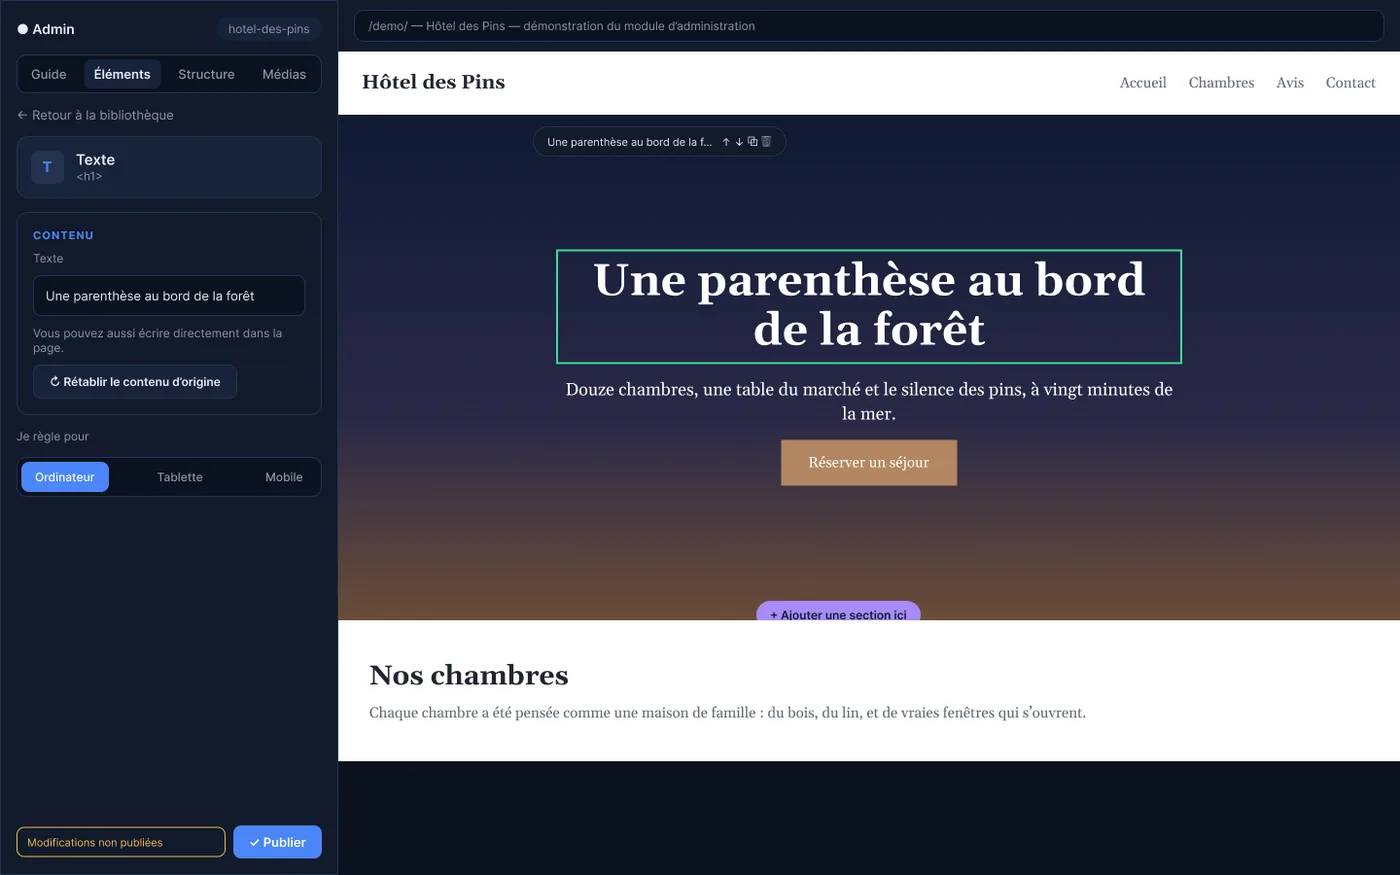
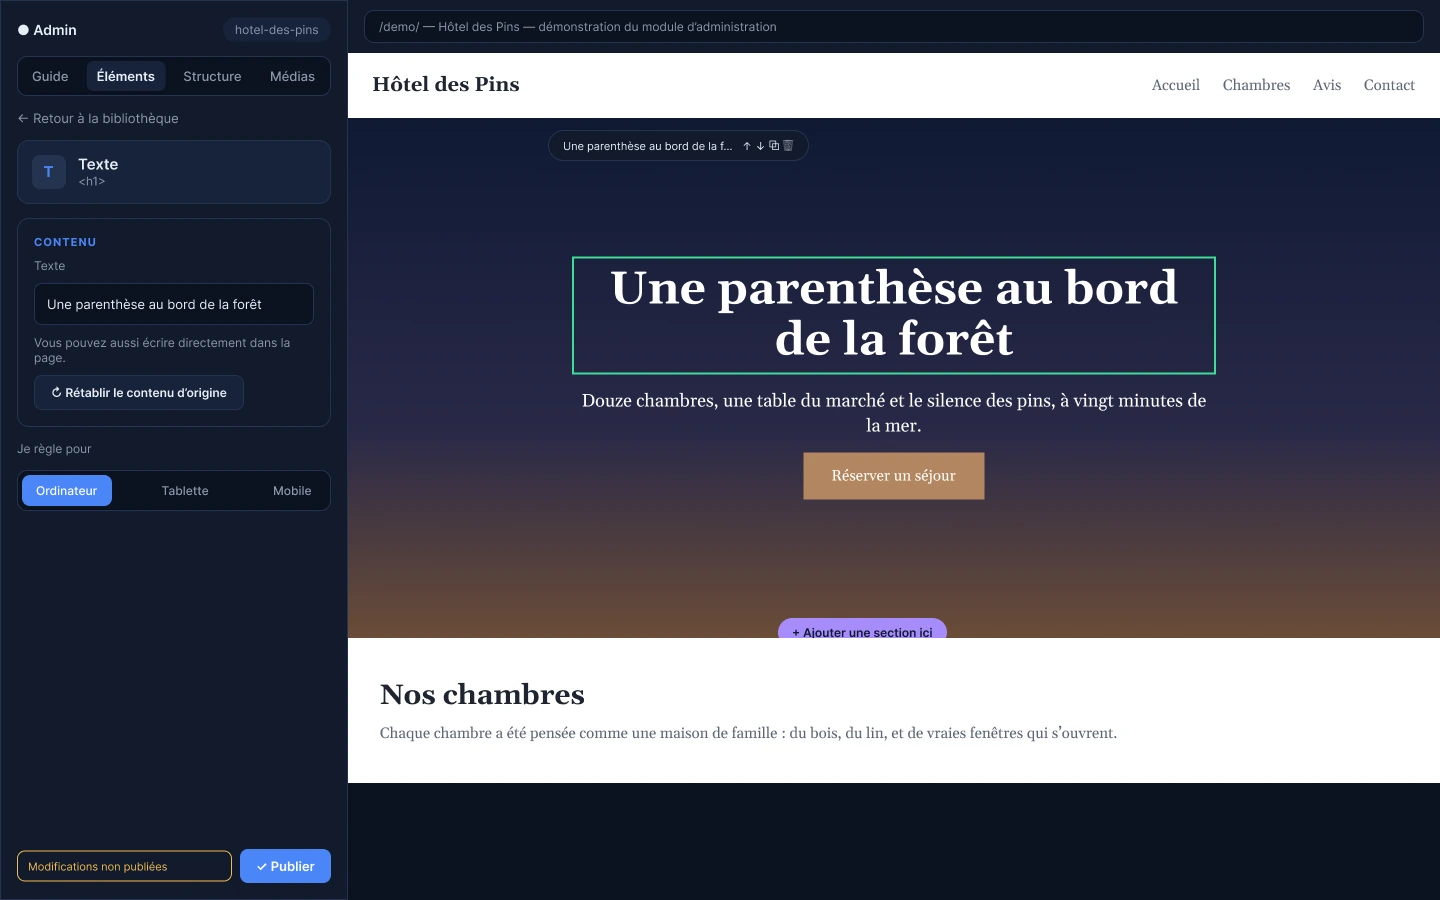
dev: miniatures nettes et cliquables pour les maquettes Figma
Claude-Session: https://claude.ai/code/session_01PL5uDWbHu6DrzALGX3Hvpk

diff --git a/assets/css/dev.css b/assets/css/dev.css
@@ -1,1 +1,1 @@
-:root{--navy: #1B3560;--signal: #3E8E5C}*{box-sizing:border-box}html{scroll-behavior:smooth}@media(prefers-reduced-motion: reduce){html{scroll-behavior:auto}*{animation-duration:.01ms !important;animation-iteration-count:1 !important;transition-duration:.01ms !important}}body{margin:0;background:#eef1ef;color:#10151c;font-family:"IBM Plex Sans",sans-serif;line-height:1.5}a{color:inherit}a:focus-visible{outline:2px solid #3e8e5c;outline-offset:3px}button:focus-visible{outline:2px solid #3e8e5c;outline-offset:3px}.mono{font-family:"IBM Plex Mono",monospace}.wrap{max-width:920px;margin:0 auto;padding:0 24px}.topbar{display:flex;justify-content:space-between;align-items:center;padding:20px 24px;border-bottom:1px solid #c6d0cb;font-family:"IBM Plex Mono",monospace;font-size:13px}.topbar .brand{color:#1b3560;font-weight:500;text-decoration:none}.topbar nav a{margin-left:20px;text-decoration:none;color:#10151c;opacity:.75}.topbar nav a:hover{opacity:1;color:#3e8e5c}.topbar nav a:focus-visible{outline:2px solid #3e8e5c;outline-offset:3px}.hero{padding:96px 0 72px}.hero h1{font-family:"Space Grotesk",sans-serif;font-weight:700;font-size:clamp(34px,6vw,56px);line-height:1.05;letter-spacing:-0.01em;margin:0 0 20px;color:#1b3560}.hero p.lede{font-size:18px;max-width:56ch;color:#2b3a45;margin:0 0 32px}.boot{font-family:"IBM Plex Mono",monospace;font-size:13px;color:#3e8e5c;margin-bottom:28px;min-height:1.4em}.boot::after{content:"▍";animation:blink 1s steps(1) infinite}@keyframes blink{50%{opacity:0}}.hero-tags{display:flex;flex-wrap:wrap;gap:8px}.tag{background:#fbfcfb;border:1px solid #c6d0cb;border-radius:2px;font-family:"IBM Plex Mono",monospace;font-size:12px;padding:6px 10px}.section{padding:56px 0}.section+.section{border-top:1px solid #c6d0cb}.section h2{font-family:"Space Grotesk",sans-serif;font-size:28px;margin:0 0 32px;color:#1b3560}.section-label{font-family:"IBM Plex Mono",monospace;font-size:12px;text-transform:uppercase;letter-spacing:.08em;color:#b87a2e;margin:0 0 8px}.about-grid{display:grid;grid-template-columns:1fr;gap:28px}@media(min-width: 720px){.about-grid{grid-template-columns:1.3fr 1fr}}.about-text p{margin:0 0 16px;color:#2b3a45}.path{background:#fbfcfb;border:1px solid #c6d0cb;border-radius:2px;font-family:"IBM Plex Mono",monospace;font-size:13px;padding:18px}.path .step{display:flex;gap:10px;padding:6px 0}.path .step:not(:last-child){border-bottom:1px dashed #c6d0cb}.path .yr{color:#b87a2e;min-width:52px}.project{background:#fbfcfb;border:1px solid #c6d0cb;border-radius:2px;padding:28px;margin-bottom:24px}.project h3{font-family:"Space Grotesk",sans-serif;font-size:22px;margin:0;color:#10151c}.project p.desc{margin:0 0 16px;color:#2b3a45}.project code{font-family:"IBM Plex Mono",monospace;font-size:.9em;background:#e2e7e4;padding:1px 4px}.project-head{display:flex;justify-content:space-between;align-items:baseline;flex-wrap:wrap;gap:8px;margin-bottom:12px}.status{font-family:"IBM Plex Mono",monospace;font-size:11px;padding:3px 8px;background:#dceae1;color:#3e8e5c;border-radius:2px;white-space:nowrap}.logline{font-family:"IBM Plex Mono",monospace;font-size:12.5px;color:#4a5a63;border-top:1px solid #e2e7e4;padding-top:14px;display:grid;gap:6px}.logline span.k{color:#b87a2e}.logline a{color:#1b3560;text-underline-offset:2px}.highlights{margin:14px 0 0;padding-left:18px;color:#2b3a45;font-size:14.5px}.highlights li{margin-bottom:6px}.shots{display:grid;grid-template-columns:1fr;gap:20px;margin:18px 0 6px}.shots figure{margin:0}.shots figure.compact{max-width:680px}.shots img{display:block;width:100%;height:auto;border:1px solid #c6d0cb;border-radius:2px;background:#fbfcfb}.shots.narrow figure{max-width:668px}.shots figcaption{font-family:"IBM Plex Mono",monospace;font-size:11.5px;color:#4a5a63;margin-top:6px}.mockup{margin:18px 0 6px;background:#0b1526;border:1px solid #1c2a3f;border-radius:6px;overflow:hidden;font-family:"IBM Plex Sans",sans-serif}.mockup-bar{display:flex;align-items:center;justify-content:space-between;padding:9px 14px;background:#0e1a2e;border-bottom:1px solid #1c2a3f;font-family:"IBM Plex Mono",monospace;font-size:10.5px;color:#7891ab}.mockup-bar .badge{background:rgba(62,142,92,.18);color:#57c98a;border:1px solid rgba(62,142,92,.35);padding:2px 7px;border-radius:20px;font-weight:600;margin-right:8px}.mockup-body{display:grid;grid-template-columns:1fr 1fr;gap:1px;background:#1c2a3f}@media(max-width: 560px){.mockup-body{grid-template-columns:1fr}}.mockup-col{background:#0b1526;padding:14px}.mockup-col .role{font-family:"IBM Plex Mono",monospace;font-size:10px;text-transform:uppercase;letter-spacing:.06em;color:#7891ab;margin-bottom:8px}.mockup-col .role em{font-style:normal;background:rgba(255,255,255,.08);color:#d7e0ea;padding:2px 7px;border-radius:20px;margin-left:6px}.mockup-card{background:#f4efe6;border-radius:4px;padding:12px;color:#1a1a1a}.mockup-card .t{font-weight:600;font-size:13px;margin-bottom:2px}.mockup-card .s{font-size:11px;color:#6b7280}.mockup-row{display:flex;justify-content:space-between;align-items:center;background:#fff;border-radius:3px;padding:7px 10px;margin-top:8px;font-size:11.5px}.mockup-row .btn{background:#2aa9cc;color:#fff;font-size:10.5px;font-weight:600;padding:4px 9px;border-radius:3px}footer{padding:56px 0 80px}.contact-box{background:#1b3560;color:#fbfcfb;border-radius:2px;padding:36px}.contact-box h2{font-family:"Space Grotesk",sans-serif;margin:0 0 12px;font-size:24px}.contact-box p{margin:0 0 20px;color:#c9d3de}.btn-row{display:flex;flex-wrap:wrap;gap:12px}.btn{font-family:"IBM Plex Mono",monospace;font-size:13px;text-decoration:none;padding:11px 18px;border-radius:2px;border:1px solid rgba(255,255,255,.3);color:#fbfcfb;transition:background .15s ease,border-color .15s ease}.btn:hover{border-color:#fbfcfb}.btn.primary{background:#3e8e5c;border-color:#3e8e5c}.btn.primary:hover{background:#357b4e}.foot-note{font-family:"IBM Plex Mono",monospace;font-size:12px;color:#7c8b95;margin-top:40px;text-align:center}.foot-note a{color:#1b3560;text-decoration:underline}
+:root{--navy: #1B3560;--signal: #3E8E5C}*{box-sizing:border-box}html{scroll-behavior:smooth}@media(prefers-reduced-motion: reduce){html{scroll-behavior:auto}*{animation-duration:.01ms !important;animation-iteration-count:1 !important;transition-duration:.01ms !important}}body{margin:0;background:#eef1ef;color:#10151c;font-family:"IBM Plex Sans",sans-serif;line-height:1.5}a{color:inherit}a:focus-visible{outline:2px solid #3e8e5c;outline-offset:3px}button:focus-visible{outline:2px solid #3e8e5c;outline-offset:3px}.mono{font-family:"IBM Plex Mono",monospace}.wrap{max-width:920px;margin:0 auto;padding:0 24px}.topbar{display:flex;justify-content:space-between;align-items:center;padding:20px 24px;border-bottom:1px solid #c6d0cb;font-family:"IBM Plex Mono",monospace;font-size:13px}.topbar .brand{color:#1b3560;font-weight:500;text-decoration:none}.topbar nav a{margin-left:20px;text-decoration:none;color:#10151c;opacity:.75}.topbar nav a:hover{opacity:1;color:#3e8e5c}.topbar nav a:focus-visible{outline:2px solid #3e8e5c;outline-offset:3px}.hero{padding:96px 0 72px}.hero h1{font-family:"Space Grotesk",sans-serif;font-weight:700;font-size:clamp(34px,6vw,56px);line-height:1.05;letter-spacing:-0.01em;margin:0 0 20px;color:#1b3560}.hero p.lede{font-size:18px;max-width:56ch;color:#2b3a45;margin:0 0 32px}.boot{font-family:"IBM Plex Mono",monospace;font-size:13px;color:#3e8e5c;margin-bottom:28px;min-height:1.4em}.boot::after{content:"▍";animation:blink 1s steps(1) infinite}@keyframes blink{50%{opacity:0}}.hero-tags{display:flex;flex-wrap:wrap;gap:8px}.tag{background:#fbfcfb;border:1px solid #c6d0cb;border-radius:2px;font-family:"IBM Plex Mono",monospace;font-size:12px;padding:6px 10px}.section{padding:56px 0}.section+.section{border-top:1px solid #c6d0cb}.section h2{font-family:"Space Grotesk",sans-serif;font-size:28px;margin:0 0 32px;color:#1b3560}.section-label{font-family:"IBM Plex Mono",monospace;font-size:12px;text-transform:uppercase;letter-spacing:.08em;color:#b87a2e;margin:0 0 8px}.about-grid{display:grid;grid-template-columns:1fr;gap:28px}@media(min-width: 720px){.about-grid{grid-template-columns:1.3fr 1fr}}.about-text p{margin:0 0 16px;color:#2b3a45}.path{background:#fbfcfb;border:1px solid #c6d0cb;border-radius:2px;font-family:"IBM Plex Mono",monospace;font-size:13px;padding:18px}.path .step{display:flex;gap:10px;padding:6px 0}.path .step:not(:last-child){border-bottom:1px dashed #c6d0cb}.path .yr{color:#b87a2e;min-width:52px}.project{background:#fbfcfb;border:1px solid #c6d0cb;border-radius:2px;padding:28px;margin-bottom:24px}.project h3{font-family:"Space Grotesk",sans-serif;font-size:22px;margin:0;color:#10151c}.project p.desc{margin:0 0 16px;color:#2b3a45}.project code{font-family:"IBM Plex Mono",monospace;font-size:.9em;background:#e2e7e4;padding:1px 4px}.project-head{display:flex;justify-content:space-between;align-items:baseline;flex-wrap:wrap;gap:8px;margin-bottom:12px}.status{font-family:"IBM Plex Mono",monospace;font-size:11px;padding:3px 8px;background:#dceae1;color:#3e8e5c;border-radius:2px;white-space:nowrap}.logline{font-family:"IBM Plex Mono",monospace;font-size:12.5px;color:#4a5a63;border-top:1px solid #e2e7e4;padding-top:14px;display:grid;gap:6px}.logline span.k{color:#b87a2e}.logline a{color:#1b3560;text-underline-offset:2px}.highlights{margin:14px 0 0;padding-left:18px;color:#2b3a45;font-size:14.5px}.highlights li{margin-bottom:6px}.shots{display:flex;flex-wrap:wrap;gap:16px;margin:18px 0 6px}.shots figure{margin:0;flex:0 1 380px;min-width:0;max-width:100%}.shots a{display:block}.shots img{display:block;width:100%;height:auto;border:1px solid #c6d0cb;border-radius:2px;background:#fbfcfb;transition:border-color .15s ease}.shots a:hover img{border-color:#1b3560}.shots figcaption{font-family:"IBM Plex Mono",monospace;font-size:11.5px;color:#4a5a63;margin-top:6px}.mockup{margin:18px 0 6px;background:#0b1526;border:1px solid #1c2a3f;border-radius:6px;overflow:hidden;font-family:"IBM Plex Sans",sans-serif}.mockup-bar{display:flex;align-items:center;justify-content:space-between;padding:9px 14px;background:#0e1a2e;border-bottom:1px solid #1c2a3f;font-family:"IBM Plex Mono",monospace;font-size:10.5px;color:#7891ab}.mockup-bar .badge{background:rgba(62,142,92,.18);color:#57c98a;border:1px solid rgba(62,142,92,.35);padding:2px 7px;border-radius:20px;font-weight:600;margin-right:8px}.mockup-body{display:grid;grid-template-columns:1fr 1fr;gap:1px;background:#1c2a3f}@media(max-width: 560px){.mockup-body{grid-template-columns:1fr}}.mockup-col{background:#0b1526;padding:14px}.mockup-col .role{font-family:"IBM Plex Mono",monospace;font-size:10px;text-transform:uppercase;letter-spacing:.06em;color:#7891ab;margin-bottom:8px}.mockup-col .role em{font-style:normal;background:rgba(255,255,255,.08);color:#d7e0ea;padding:2px 7px;border-radius:20px;margin-left:6px}.mockup-card{background:#f4efe6;border-radius:4px;padding:12px;color:#1a1a1a}.mockup-card .t{font-weight:600;font-size:13px;margin-bottom:2px}.mockup-card .s{font-size:11px;color:#6b7280}.mockup-row{display:flex;justify-content:space-between;align-items:center;background:#fff;border-radius:3px;padding:7px 10px;margin-top:8px;font-size:11.5px}.mockup-row .btn{background:#2aa9cc;color:#fff;font-size:10.5px;font-weight:600;padding:4px 9px;border-radius:3px}footer{padding:56px 0 80px}.contact-box{background:#1b3560;color:#fbfcfb;border-radius:2px;padding:36px}.contact-box h2{font-family:"Space Grotesk",sans-serif;margin:0 0 12px;font-size:24px}.contact-box p{margin:0 0 20px;color:#c9d3de}.btn-row{display:flex;flex-wrap:wrap;gap:12px}.btn{font-family:"IBM Plex Mono",monospace;font-size:13px;text-decoration:none;padding:11px 18px;border-radius:2px;border:1px solid rgba(255,255,255,.3);color:#fbfcfb;transition:background .15s ease,border-color .15s ease}.btn:hover{border-color:#fbfcfb}.btn.primary{background:#3e8e5c;border-color:#3e8e5c}.btn.primary:hover{background:#357b4e}.foot-note{font-family:"IBM Plex Mono",monospace;font-size:12px;color:#7c8b95;margin-top:40px;text-align:center}.foot-note a{color:#1b3560;text-decoration:underline}

diff --git a/dev.html b/dev.html
@@ -57,8 +57,8 @@
         <li>Balisage émis sémantique et sans classes, comportements en HTML/CSS natif (<code>&lt;details&gt;</code>, <code>:target</code>) qui survivent au retrait du module</li>
       </ul>
       <div class="shots">
-        <figure><img src="/assets/dev/figma-module-admin-editeur.webp" alt="Maquette Figma de l'éditeur : panneau latéral et page en cours d'édition" loading="lazy"><figcaption>Maquette Figma · l'éditeur</figcaption></figure>
-        <figure class="compact"><img src="/assets/dev/figma-module-admin-assistant.webp" alt="Maquette Figma de l'assistant de création de page" loading="lazy"><figcaption>Maquette Figma · l'assistant de page</figcaption></figure>
+        <figure><a href="/assets/dev/figma-module-admin-editeur.webp" target="_blank" rel="noopener"><img src="/assets/dev/figma-module-admin-editeur.webp" alt="Maquette Figma de l'éditeur : panneau latéral et page en cours d'édition" loading="lazy"></a><figcaption>Maquette Figma · l'éditeur</figcaption></figure>
+        <figure><a href="/assets/dev/figma-module-admin-assistant.webp" target="_blank" rel="noopener"><img src="/assets/dev/figma-module-admin-assistant.webp" alt="Maquette Figma de l'assistant de création de page" loading="lazy"></a><figcaption>Maquette Figma · l'assistant de page</figcaption></figure>
       </div>
       <div class="logline">
         <div><span class="k">stack:</span> JavaScript (modules ES), HTML, CSS, PHP pour l'hébergement</div>
@@ -80,7 +80,7 @@
         <li>Composants et styles réutilisables, police Figtree hébergée sur le site</li>
       </ul>
       <div class="shots">
-        <figure><img src="/assets/dev/figma-mairie-sassy.webp" alt="Maquette Figma de l'accueil du site de la mairie" loading="lazy"><figcaption>Maquette Figma · accueil</figcaption></figure>
+        <figure><a href="/assets/dev/figma-mairie-sassy.webp" target="_blank" rel="noopener"><img src="/assets/dev/figma-mairie-sassy.webp" alt="Maquette Figma de l'accueil du site de la mairie" loading="lazy"></a><figcaption>Maquette Figma · accueil</figcaption></figure>
       </div>
       <div class="logline">
         <div><span class="k">stack:</span> Astro, TypeScript, Markdown / YAML, Pagefind, Vercel</div>
@@ -100,8 +100,8 @@
         <li>Hiérarchie de l'information et lisibilité travaillées pour un public non technique</li>
         <li>Cohérence stricte avec l'identité de marque existante (logo, palette, ton)</li>
       </ul>
-      <div class="shots narrow">
-        <figure><img src="/assets/dev/figma-procom.webp" alt="Maquette Figma de l'accueil de Procom Solution" loading="lazy"><figcaption>Maquette Figma · accueil</figcaption></figure>
+      <div class="shots">
+        <figure><a href="/assets/dev/figma-procom.webp" target="_blank" rel="noopener"><img src="/assets/dev/figma-procom.webp" alt="Maquette Figma de l'accueil de Procom Solution" loading="lazy"></a><figcaption>Maquette Figma · accueil</figcaption></figure>
       </div>
       <div class="logline">
         <div><span class="k">stack:</span> HTML, CSS, JavaScript, Vercel</div>

diff --git a/scss/dev/_projects.scss b/scss/dev/_projects.scss
@@ -35,17 +35,17 @@
   li { margin-bottom: 6px; }
 }
 
-// Maquettes Figma : une image par ligne, pleine largeur de la carte,
-// pour que le texte des maquettes reste lisible
+// Maquettes Figma : miniatures nettes (jamais agrandies), clic = image en taille réelle
 .shots {
-  display: grid; grid-template-columns: 1fr; gap: 20px; margin: 18px 0 6px;
+  display: flex; flex-wrap: wrap; gap: 16px; margin: 18px 0 6px;
 
-  figure { margin: 0; &.compact { max-width: 680px; } }
+  figure { margin: 0; flex: 0 1 380px; min-width: 0; max-width: 100%; }
+  a { display: block; }
   img {
     display: block; width: 100%; height: auto;
     border: 1px solid $mist; border-radius: $radius; background: $white;
+    transition: border-color .15s ease;
   }
-  // Image d'origine étroite : on ne l'agrandit pas (sinon elle devient floue)
-  &.narrow figure { max-width: 668px; }
+  a:hover img { border-color: $navy; }
   figcaption { @include mono(11.5px); color: #4A5A63; margin-top: 6px; }
 }
